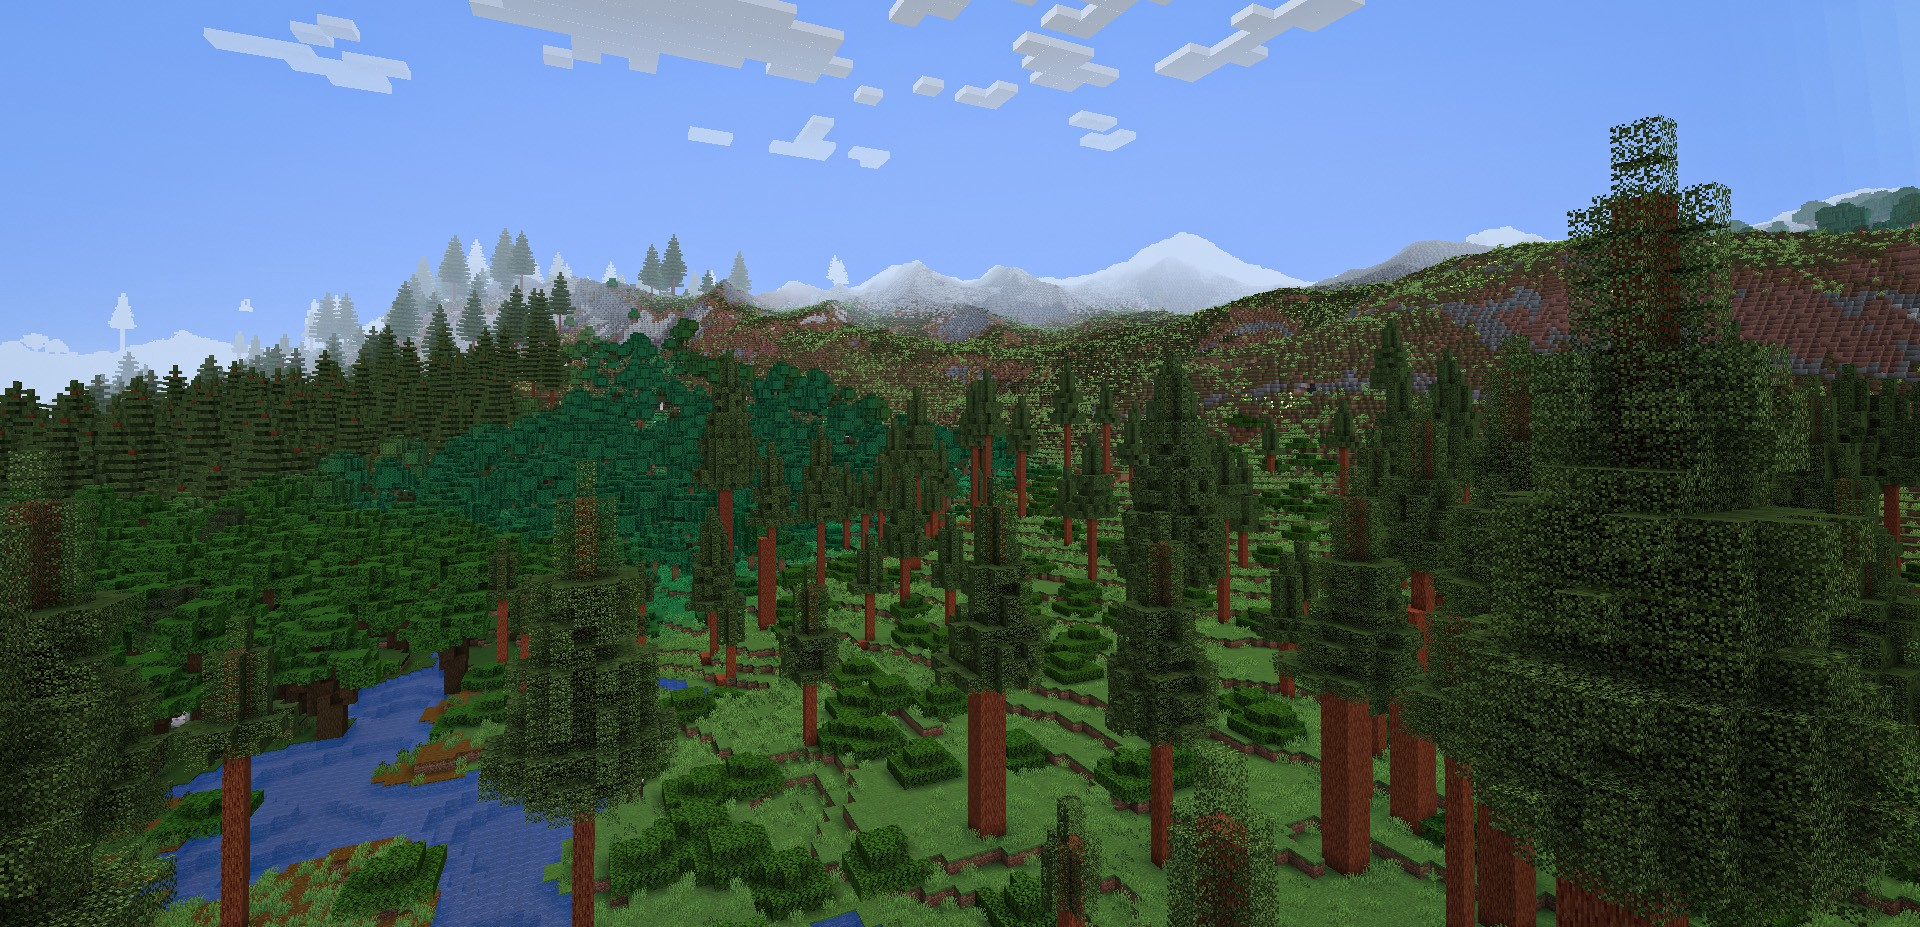
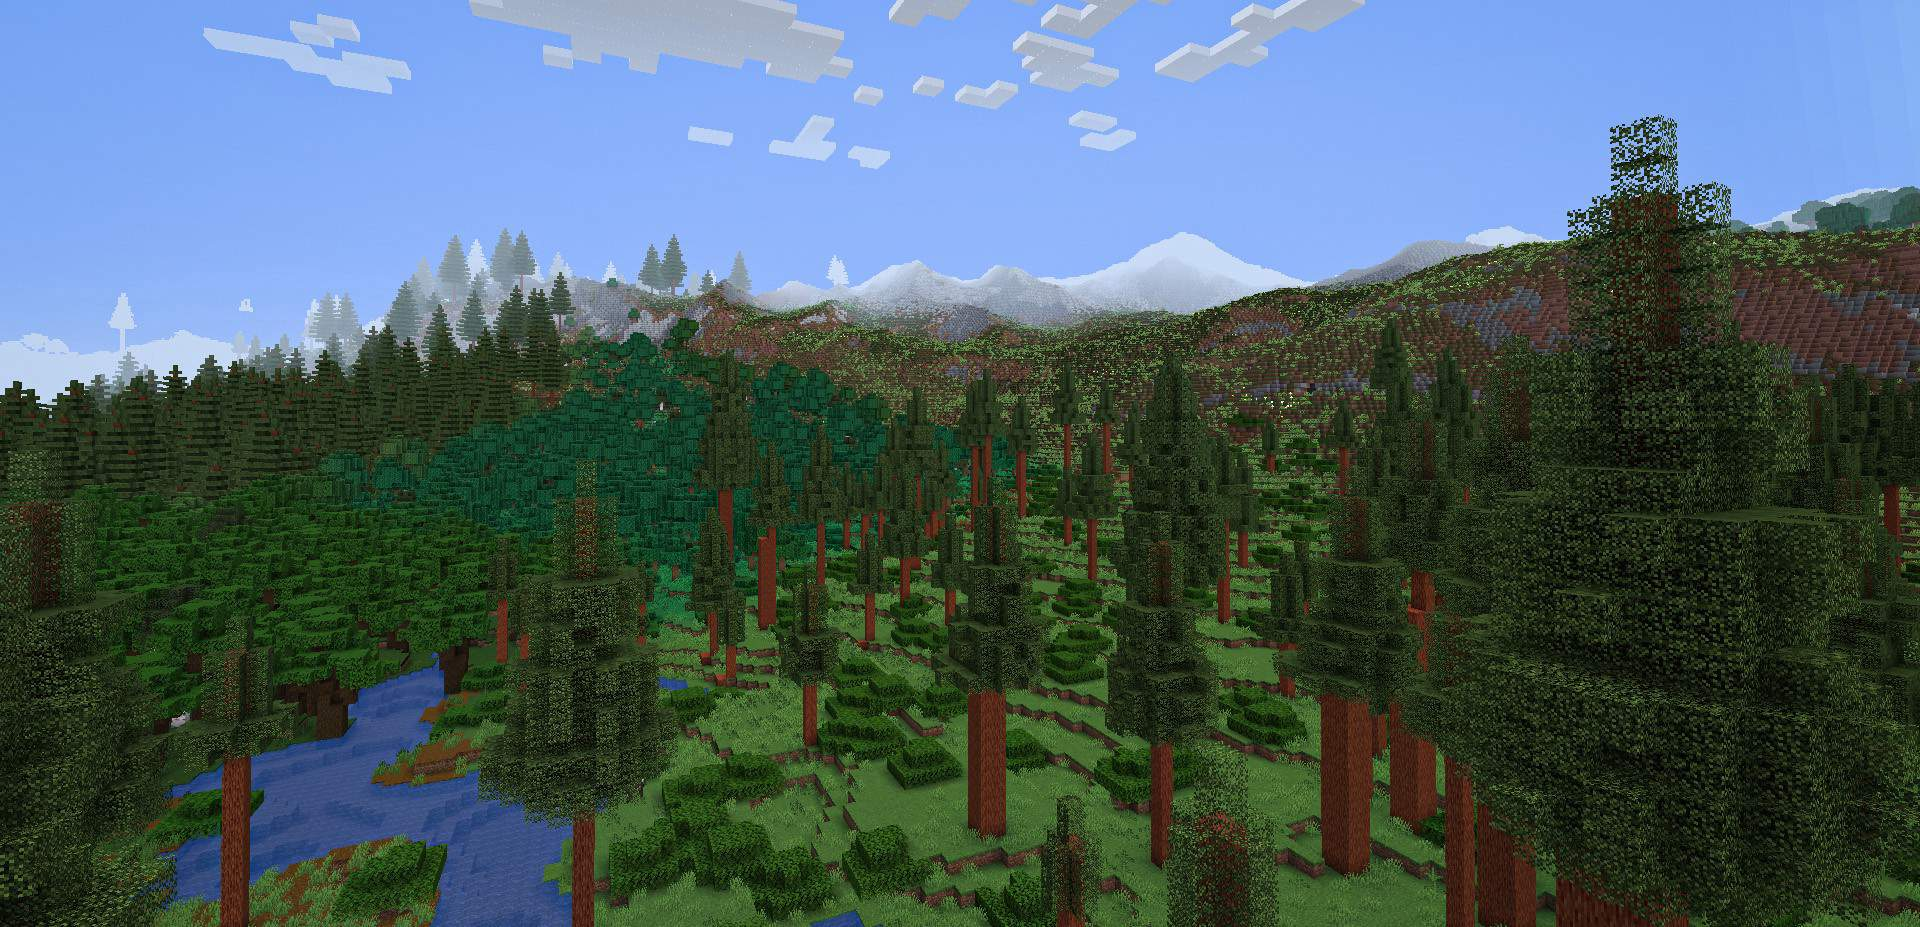
undo, just crush fullsize images more

diff --git a/css/banner.css b/css/banner.css
@@ -5,19 +5,12 @@
 
 .banner {
     height: 100%;
-    background: url("../image/thumb/village-1.jpg") no-repeat fixed center;
+    background: url("../image/village-1.jpg") no-repeat fixed center;
     background-size: cover;
     flex-grow: 1;
     display: flex;
     align-items: center;
     justify-content: center;
-    backdrop-filter: blur(5px);
-    transition: background .025s;
-}
-
-.banner-hd {
-    background: url("../image/village-1.jpg") no-repeat fixed center;
-    background-size: cover;
 }
 
 .splash {

diff --git a/script/lazy.js b/script/lazy.js
@@ -1,17 +1,6 @@
 document.addEventListener("DOMContentLoaded", function() {
     handleImages();
-    handleBanners();
 });
-
-function handleBanners() {
-    setTimeout(function() {
-        let banner1 = document.querySelector(".banner");
-        banner1.classList.add("banner-hd");
-
-        let banner2 = document.querySelector(".section-banner");
-        banner2.classList.add("section-banner-hd");
-    }, 10);
-}
 
 function handleImages() {
     let lazyImages = [].slice.call(document.querySelectorAll("img"));

diff --git a/css/content.css b/css/content.css
@@ -44,11 +44,6 @@
     justify-content: center;
     min-height: 35em;
     height: 100%;
-    background: url("../image/thumb/mountains-2.jpg") no-repeat fixed top center;
-    background-size: cover;
-}
-
-.section-banner-hd {
     background: url("../image/mountains-2.jpg") no-repeat fixed top center;
     background-size: cover;
 }
